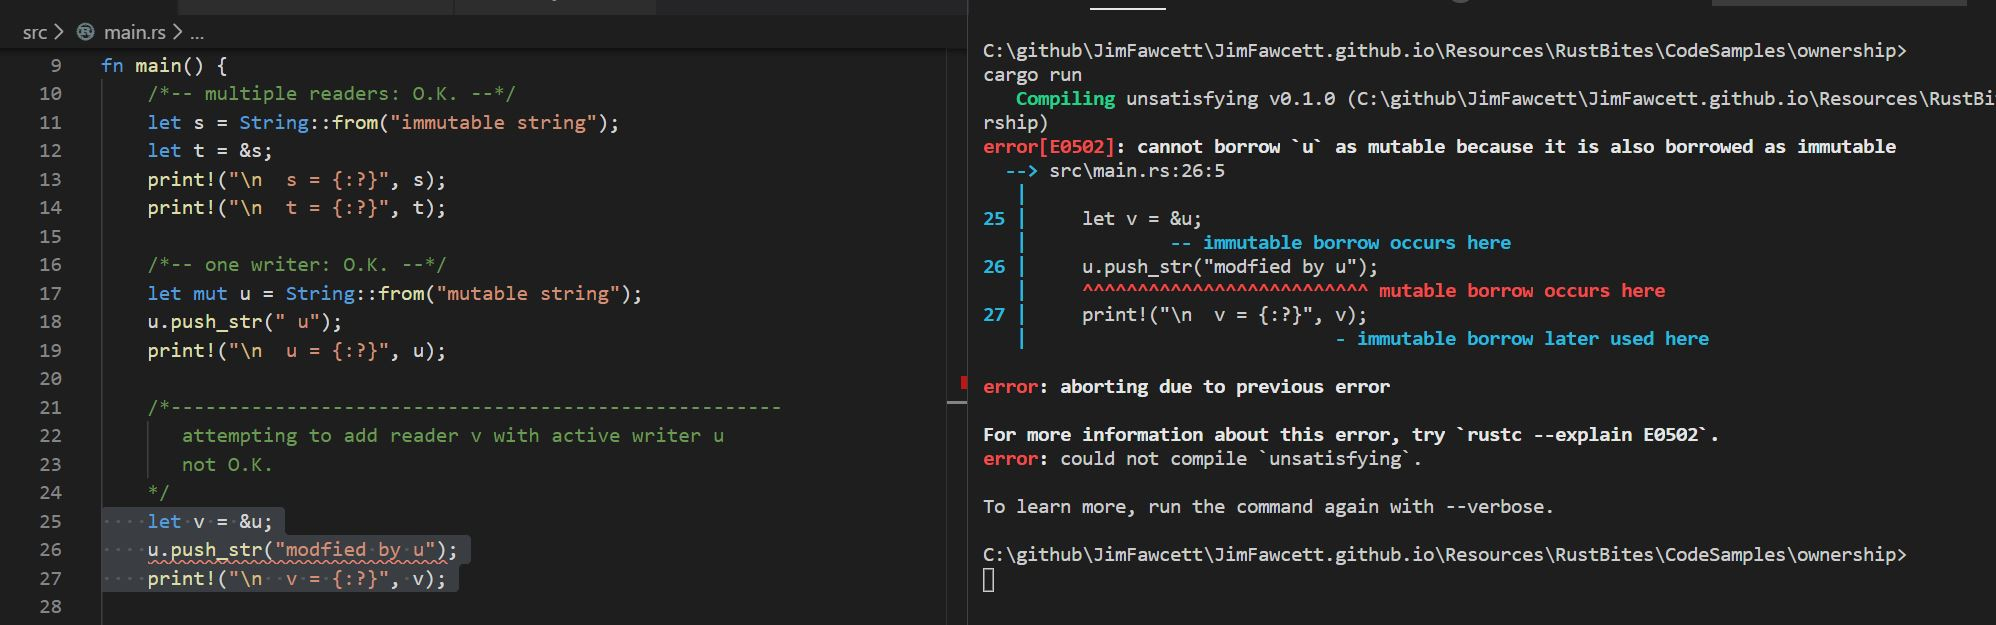
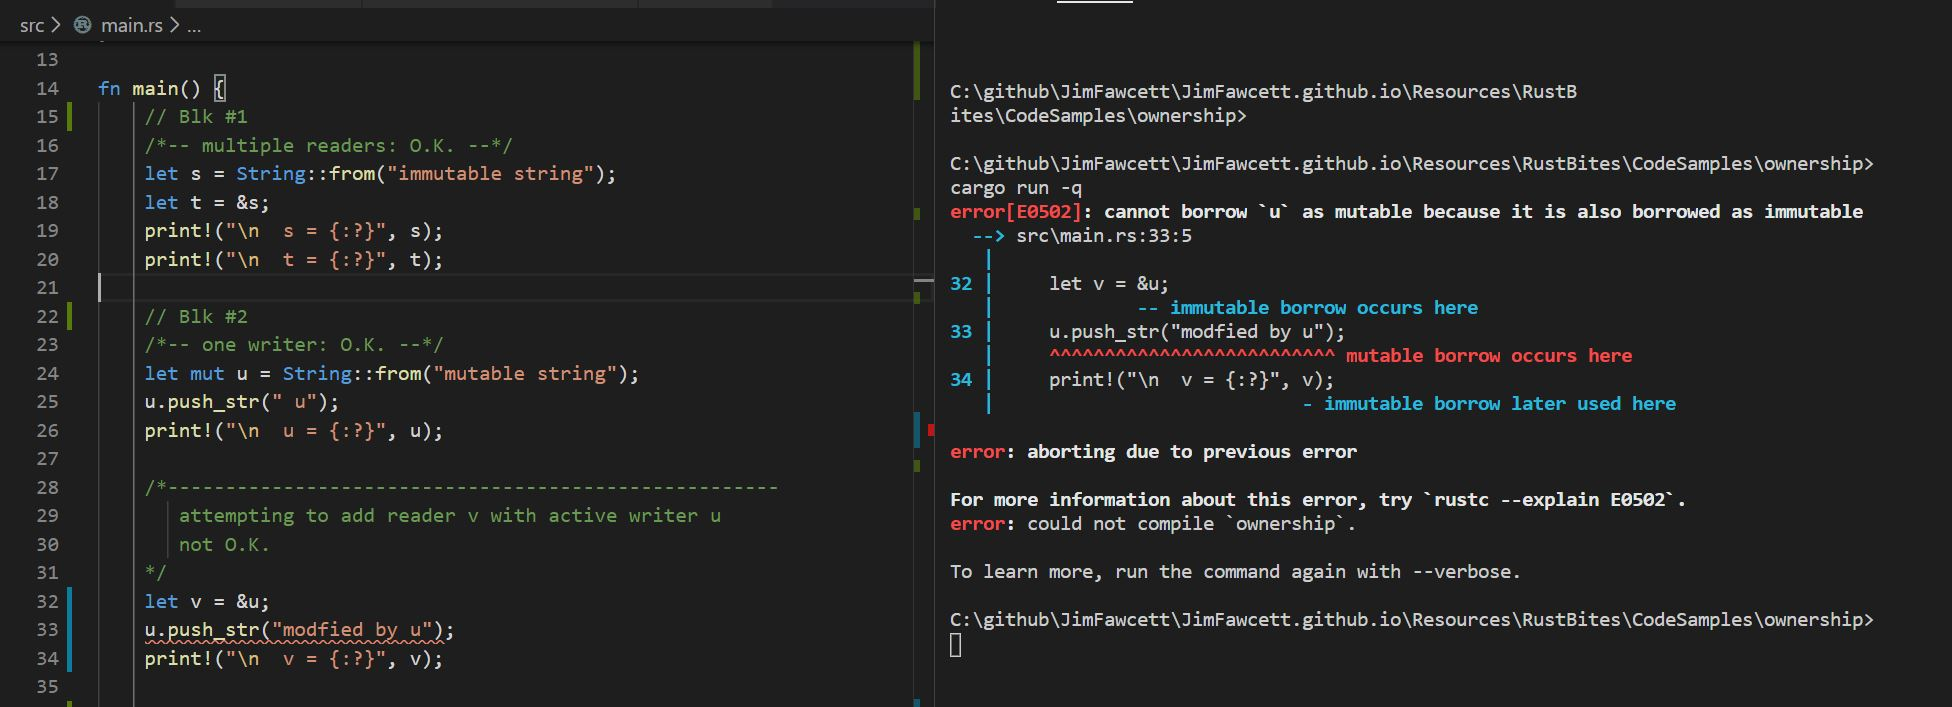
revised small pieces of text and code

diff --git a/Resources/RustBites/RustBites_Ownrs.html b/Resources/RustBites/RustBites_Ownrs.html
@@ -84,11 +84,10 @@
       <hr />
       <t-b>
         Rust ownership policy is a set of rules that apply to read, write, allocation, and disposal operations on data.  
-        These rules, with occasional help from <a href="RustBites_Intmut.html">Interior Mutablity</a> are responsible 
-        Rust's memory safety.  
+        These rules, enforced by the Rust compiler, are responsible for Rust's memory safety.  
       </t-b>
       <t-b>
-        Interior Mutability shares responsibility for situations
+        <a href="RustBites_Intmut.html">Interior Mutablity</a> shares responsibility for situations
         where the compiler&apos;s static analysis is insufficient to prove that some code is indeed 
         correct, especially for threading applications.  We will look at that in a subsequent Bite.
         Now we focus on the results of static analysis by Rust&apos;s compilation tools.
@@ -188,6 +187,12 @@
             <defn-block>
               <defn-head>ownership::main.rs</defn-head>
               <defn-code>
+/////////////////////////////////////////////////////////////
+// ownership::main.rs - demonstrates Rust ownership        //
+//                                                         //
+// Jim Fawcett, https://JimFawcett.github.com, 07 Jun 2020 //
+/////////////////////////////////////////////////////////////
+
 /*-- only one writer in function scope --*/
 fn mutate_and_show(t:&amp;mut String) {
     t.clear();
@@ -234,10 +239,10 @@ fn main() {
     mutate_and_show(&amp;mut u);
 
     /*------------------------------------------------------
-       attempting to use v after borrowing u in function call.
-       Not O.K.
-    */
-    // v.push_str(" modified by v");
+        attempting to use v after borrowing u in function call.
+        Not O.K.
+        */
+    //  v.push_str(" modified by v");
 
     println!("\n\n  That's all Folks!\n\n");
 }
@@ -247,9 +252,7 @@ fn main() {
               <defn-head>Output:</defn-head>
               <defn-code>
 cargo run
-  Finished dev [unoptimized + debuginfo] target(s)
-  in 0.02s
-    Running `target\debug\unsatisfying.exe`
+  Running `target\debug\ownership.exe`
 
 s = "immutable string"
 t = "immutable string"
@@ -257,7 +260,7 @@ u = "mutable string u"
 v = "mutable string u referenced by v"
 t in function = "new value"
 
-That's all Folks!            
+That's all Folks!
               </defn-code>
             </defn-block>
           </defn-outerBlock>

diff --git a/RustBiteByByte.html b/RustBiteByByte.html
@@ -148,14 +148,27 @@
         At the end of each bite you may find a link to an expanded discussion there.
       </t-b>
       <t-b>
-        Here are the currently planned Bites.  All the missing will be put here over the summer of 2020.
+        <div style="border:2px solid darkred; padding:0.5rem 1rem; margin:1rem 1rem;">
+          I think of these Bites as a work book for the <a href="RustStory_Prologue.html">Rust Story</a>.  The story
+          provides a fairly complete narrative description of the Rust programming language.  
+          <s-halfEm></s-halfEm>
+          Each Bite takes an important feature or capability of the language, provides a consise statement,
+          an example of its operation, and, for most of the Bites, a short set of exercises designed for
+          newcomers to the language.
+        </div>
+      </t-b>
+      <t-b>
+        Here are the currently planned Bites.  I expect the missing will be completed over the summer of 2020.
+        The ordering of some of these Bites may change. Ordering so that each Bite depends only on its 
+        predecessors doesn&apos;t necessary provide a good logical ordering.  I&apos;ll be thinking about this
+        as the list gets completed.
       </t-b>
       <div class="indent">
         <ol class="tights">
           <li>
             <hr />
             <strong><a href="Resources/RustBites/RustBites_Facts.html">Rust Facts</a></strong>
-            <span style="position:absolute;left:15em;">- Observations/conclusions from each bite</span>
+            <span style="position:absolute;left:15em;">- Glossary: observations/conclusions from each bite</span>
           </li>
           <li>
             <hr />

diff --git a/Resources/RustBites/CodeSamples/ownership/src/main1.rs.html b/Resources/RustBites/CodeSamples/ownership/src/main1.rs.html
@@ -1,4 +1,9 @@
-<pre>
+<pre>/////////////////////////////////////////////////////////////
+// ownership::main.rs - demonstrates Rust ownership        //
+//                                                         //
+// Jim Fawcett, https://JimFawcett.github.com, 07 Jun 2020 //
+/////////////////////////////////////////////////////////////
+
 /*-- only one writer in function scope --*/
 fn mutate_and_show(t:&amp;mut String) {
     t.clear();
@@ -7,12 +12,14 @@ fn mutate_and_show(t:&amp;mut String) {
 }
 
 fn main() {
+    // Blk #1
     /*-- multiple readers: O.K. --*/
     let s = String::from("immutable string");
     let t = &amp;s;
     print!("\n  s = {:?}", s);
     print!("\n  t = {:?}", t);
 
+    // Blk #2
     /*-- one writer: O.K. --*/
     let mut u = String::from("mutable string");
     u.push_str(" u");
@@ -26,6 +33,7 @@ fn main() {
     // u.push_str("modfied by u");
     // print!("\n  v = {:?}", v);
    
+    // Blk #3
     /*-- mutable v borrows u's ability to write, O.K. --*/
     let v = &amp;mut u;
     v.push_str(" referenced by v");
@@ -34,11 +42,18 @@ fn main() {
     /*-- attempting to use second writer, not O.K. --*/
     // u.push_str(" and modifed again by u");
     // print!("\n  u = {:?}", u);
+    // print!("\n  v = {:?}", v);
 
     /*-----------------------------------------------------
        can mutate u in function since ref v is not accessible 
     */
     mutate_and_show(&amp;mut u);
+
+    /*------------------------------------------------------
+       attempting to use v after borrowing u in function call.
+       Not O.K.
+       */
+   //  v.push_str(" modified by v");
 
     println!("\n\n  That's all Folks!\n\n");
 }

diff --git a/Resources/RustBites/CodeSamples/ownership/src/main.rs b/Resources/RustBites/CodeSamples/ownership/src/main.rs
@@ -1,3 +1,8 @@
+/////////////////////////////////////////////////////////////
+// ownership::main.rs - demonstrates Rust ownership        //
+//                                                         //
+// Jim Fawcett, https://JimFawcett.github.com, 07 Jun 2020 //
+/////////////////////////////////////////////////////////////
 
 /*-- only one writer in function scope --*/
 fn mutate_and_show(t:&mut String) {
@@ -7,12 +12,14 @@ fn mutate_and_show(t:&mut String) {
 }
 
 fn main() {
+    // Blk #1
     /*-- multiple readers: O.K. --*/
     let s = String::from("immutable string");
     let t = &s;
     print!("\n  s = {:?}", s);
     print!("\n  t = {:?}", t);
 
+    // Blk #2
     /*-- one writer: O.K. --*/
     let mut u = String::from("mutable string");
     u.push_str(" u");
@@ -22,19 +29,20 @@ fn main() {
        attempting to add reader v with active writer u
        not O.K. 
     */
-    // let v = &u;
-    // u.push_str("modfied by u");
-    // print!("\n  v = {:?}", v);
+   //  let v = &u;
+   //  u.push_str("modfied by u");
+   //  print!("\n  v = {:?}", v);
    
+    // Blk #3
     /*-- mutable v borrows u's ability to write, O.K. --*/
     let v = &mut u;
     v.push_str(" referenced by v");
     print!("\n  v = {:?}", v);
 
     /*-- attempting to use second writer, not O.K. --*/
-    // u.push_str(" and modifed again by u");
-    // print!("\n  u = {:?}", u);
-    // print!("\n  v = {:?}", v);
+   //  u.push_str(" and modifed again by u");
+   //  print!("\n  u = {:?}", u);
+   //  print!("\n  v = {:?}", v);
 
     /*-----------------------------------------------------
        can mutate u in function since ref v is not accessible 
@@ -45,7 +53,7 @@ fn main() {
        attempting to use v after borrowing u in function call.
        Not O.K.
        */
-    v.push_str(" modified by v");
+   //  v.push_str(" modified by v");
 
     println!("\n\n  That's all Folks!\n\n");
 }
